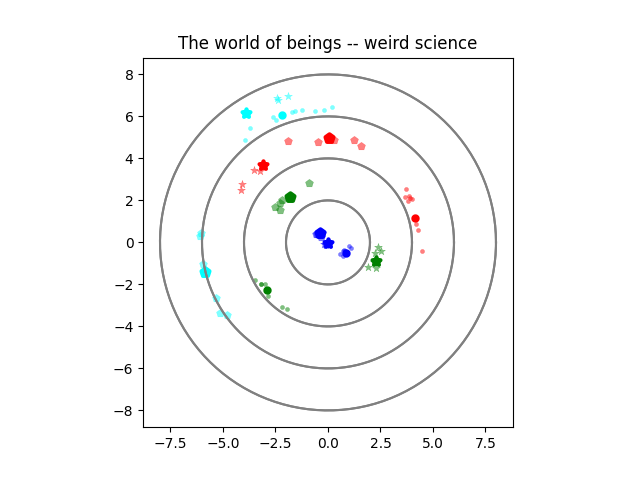
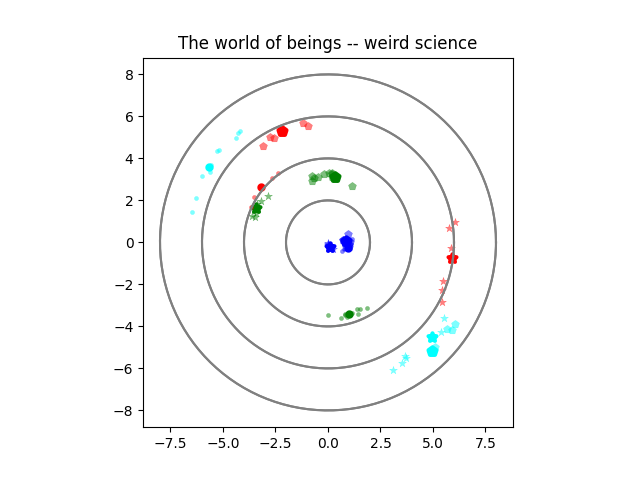
added sqlite backend

diff --git a/rattle_snake/plane_map.py b/rattle_snake/plane_map.py
@@ -4,34 +4,64 @@ draw the concentric circles
 import matplotlib.pyplot as plt
 import numpy as np
 
+from rattle_snake.constants import BeingCulture
+from rattle_snake.db_helpers import db_setup, create_node, create_connection
 
-class RealmMap:
-    """Class for holding the map of the realms"""
 
-    map_file_name = "images/weird_science_realm.png"
+class PlaneMap:
+    """Class for holding the map a plane of existence.
+
+    The higher the rank of the being, the closer to the
+    center of the plane the being is allowed to traverse.
+
+    Also the most resources exist in the center regions of
+    the plane.
+    """
+
+    map_file_names = {
+        BeingCulture.WEIRD: "images/weird_science_plane.png",
+        BeingCulture.DEEP: "images/deep_denizen_plane.png",
+        BeingCulture.DREAM: "images/dream_realm_plane.png",
+    }
     colors = ["b", "g", "r", "cyan"]
     markers = ["*", ".", "p", "s", "v"]
 
-    def __init__(self, title: str, num_circles: int = 4):
-        self.title = title
+    def __init__(
+        self, being_culture: str, num_circles: int = 4, create_new_nodes: bool = True
+    ):
+        """
+        Args:
+            being_culture (str): One of "weird_science", "dream_realm", "deep_denizen"
+            num_circles (int): Number of tiered circles to draw
+        """
+        # ensure that the database is ready to go
+        db_setup()
+        self.being_culture = BeingCulture(being_culture)
         self.num_circles = num_circles
+        # nodes setup
         self.stratum_radii = 2.0
         self.stratum_boundaries = [
             ((i) * self.stratum_radii, (i + 1) * self.stratum_radii)
             for i in range(num_circles)
         ]
+
+        # plotting setup
         self.fig = plt.figure()
         self.ax = self.fig.add_subplot(111)
         self.ax.set_aspect(1)
-        plt.title("The world of beings -- weird science")
-        self.draw_circles()
+        self.title = self.map_file_names[self.being_culture]
+        plt.title(self.title)
+
+        # this populates the nodes table
+        if create_new_nodes:
+            self.generate_nodes()
 
     def save(self):
-        """Save the image"""
-        plt.savefig(self.map_file_name)
+        """Save an image of the map in is current state"""
+        plt.savefig(self.title)
 
-    def generate_points(self, k: int = 3, min_support: int = 3, max_support: int = 10):
-        """Generate and draw points.
+    def generate_nodes(self, k: int = 3, min_support: int = 3, max_support: int = 10):
+        """Generate the nodes.
 
         There are k population centers in each stratum.
         For each population center we generate a random nubmer of
@@ -61,6 +91,15 @@ class RealmMap:
                     linewidths=3.0,
                 )
 
+                # insert population center into the table
+                # is_population_center true == 1
+                # yeild is fixed at 100 for now
+                population_center_resource_yeild = np.random.randint(100, 200)
+                node = (x, y, stratum_num, 1, population_center_resource_yeild)
+
+                conn = create_connection()
+                create_node(conn, node)
+
                 # generate supporting nodes
                 num_support = np.random.randint(min_support, max_support + 1)
                 for _ in range(num_support):
@@ -81,6 +120,15 @@ class RealmMap:
                         linewidths=0.25,
                     )
 
+                    yeild_delta = 50
+                    supporting_node_resource_yeild = np.random.randint(
+                        int(population_center_resource_yeild * 0.1),
+                        int(population_center_resource_yeild * 0.6),
+                    )
+                    # 0 for not a population center
+                    node = (x, y, stratum_num, 0, supporting_node_resource_yeild)
+                    create_node(conn, node)
+
     def draw_circles(self):
         """Draw the domain of the weird science beings"""
         angle = np.linspace(0, 2 * np.pi, 250)
@@ -97,13 +145,14 @@ class RealmMap:
     def draw(self):
         """Draw everyting for this realm map"""
         self.draw_circles()
-        self.generate_points()
+        # TODO replace with a load nodes from the database
+        self.generate_nodes()
 
 
 def main():
-    realm_map = RealmMap(title="The world of Weird Science Beings")
-    realm_map.draw()
-    realm_map.save()
+    plane_map = PlaneMap(being_culture="weird_science")
+    plane_map.draw()
+    plane_map.save()
 
     print("Drawing Complete")
 

diff --git a/rattle_snake/db_helpers.py b/rattle_snake/db_helpers.py
@@ -1,0 +1,59 @@
+import sqlite3
+
+from rattle_snake.constants import PLANES_DB_FILE
+
+
+CREATE_NODES_TABLE_QUERY = """
+CREATE TABLE IF NOT EXISTS nodes (
+  node_id INTEGER PRIMARY KEY,
+  x REAL NOT NULL,
+  y REAL NOT NULL,
+  stratum_id INTEGER NOT NULL,
+  is_population_center INTERGER NOT NULL,
+  resource_yeild INTEGER NOT NULL
+);
+"""
+
+INSERT_NODE_QUERY = """
+INSERT INTO nodes (x,y,stratum_id,is_population_center,resource_yeild)
+VALUES(?,?,?,?,?)
+"""
+
+
+def create_connection(db_file=PLANES_DB_FILE):
+    """returns a connection to the db_file"""
+    conn = None
+    try:
+        conn = sqlite3.connect(db_file)
+    except Exception as e:
+        print(e)
+
+    return conn
+
+
+def create_nodes_table(conn):
+    """Create the Nodes table if it doesn't yet exist."""
+    cur = conn.cursor()
+    cur.execute(CREATE_NODES_TABLE_QUERY)
+    conn.commit()
+
+
+def create_node(conn, node):
+    """
+    node is a list/tuple of 5 values
+    - x
+    - y
+    - stratum_id
+    - is_population_center
+    - resource_yeild
+    """
+    cur = conn.cursor()
+    cur.execute(INSERT_NODE_QUERY, node)
+    conn.commit()
+    print(f"added node {node}")
+
+
+def db_setup():
+    """Sets up the database with tables if it hasn't already been setup."""
+    conn = create_connection()
+    create_nodes_table(conn)

diff --git a/rattle_snake/constants.py b/rattle_snake/constants.py
@@ -1,0 +1,12 @@
+from enum import Enum
+
+
+class BeingCulture(Enum):
+    """These are the possible being cultures"""
+
+    DREAM = "dream_realm"
+    DEEP = "deep_denizen"
+    WEIRD = "weird_science"
+
+
+PLANES_DB_FILE = "planes.db"

diff --git a/README.md b/README.md
@@ -22,8 +22,26 @@ poetry install
 For now try
 
 ``` shell
-poetry run python rattle_snake/circles.py
+poetry run python -m rattle_snake/plane_map.py
 ```
 
-which should generate an image in the images directory for a certain realm.
+which should generate an image in the images directory for a certain
+plane of existence.
 
+## Exporting 
+
+Not yet implemented
+
+## desired features 
+
+- want to be able formulate more urban versus not urban settings
+
+- how should nodes be connected?
+
+## How will this project communicate with the Beings simulation?
+
+One pattern is to use files
+
+Another is to consider using SQLite
+
+Third option, translate to Elixir
